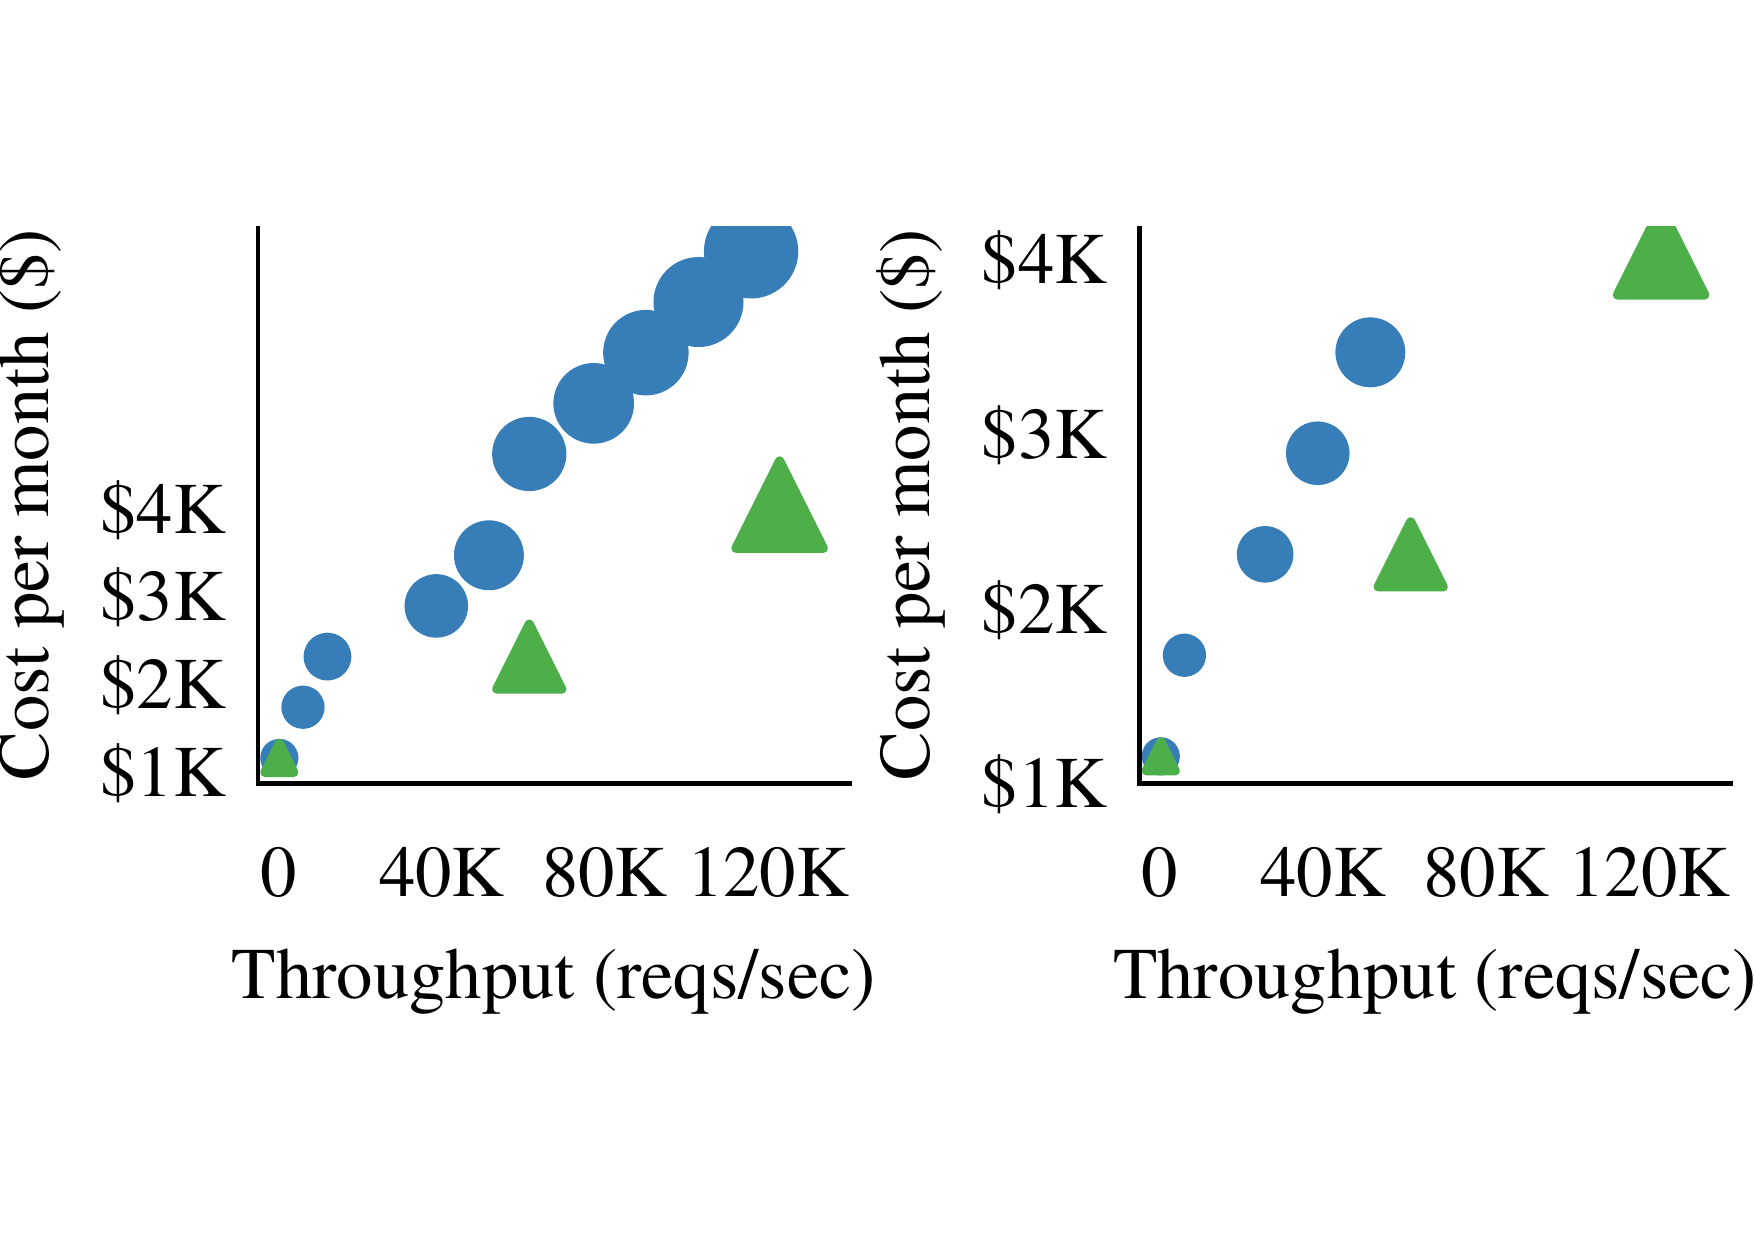
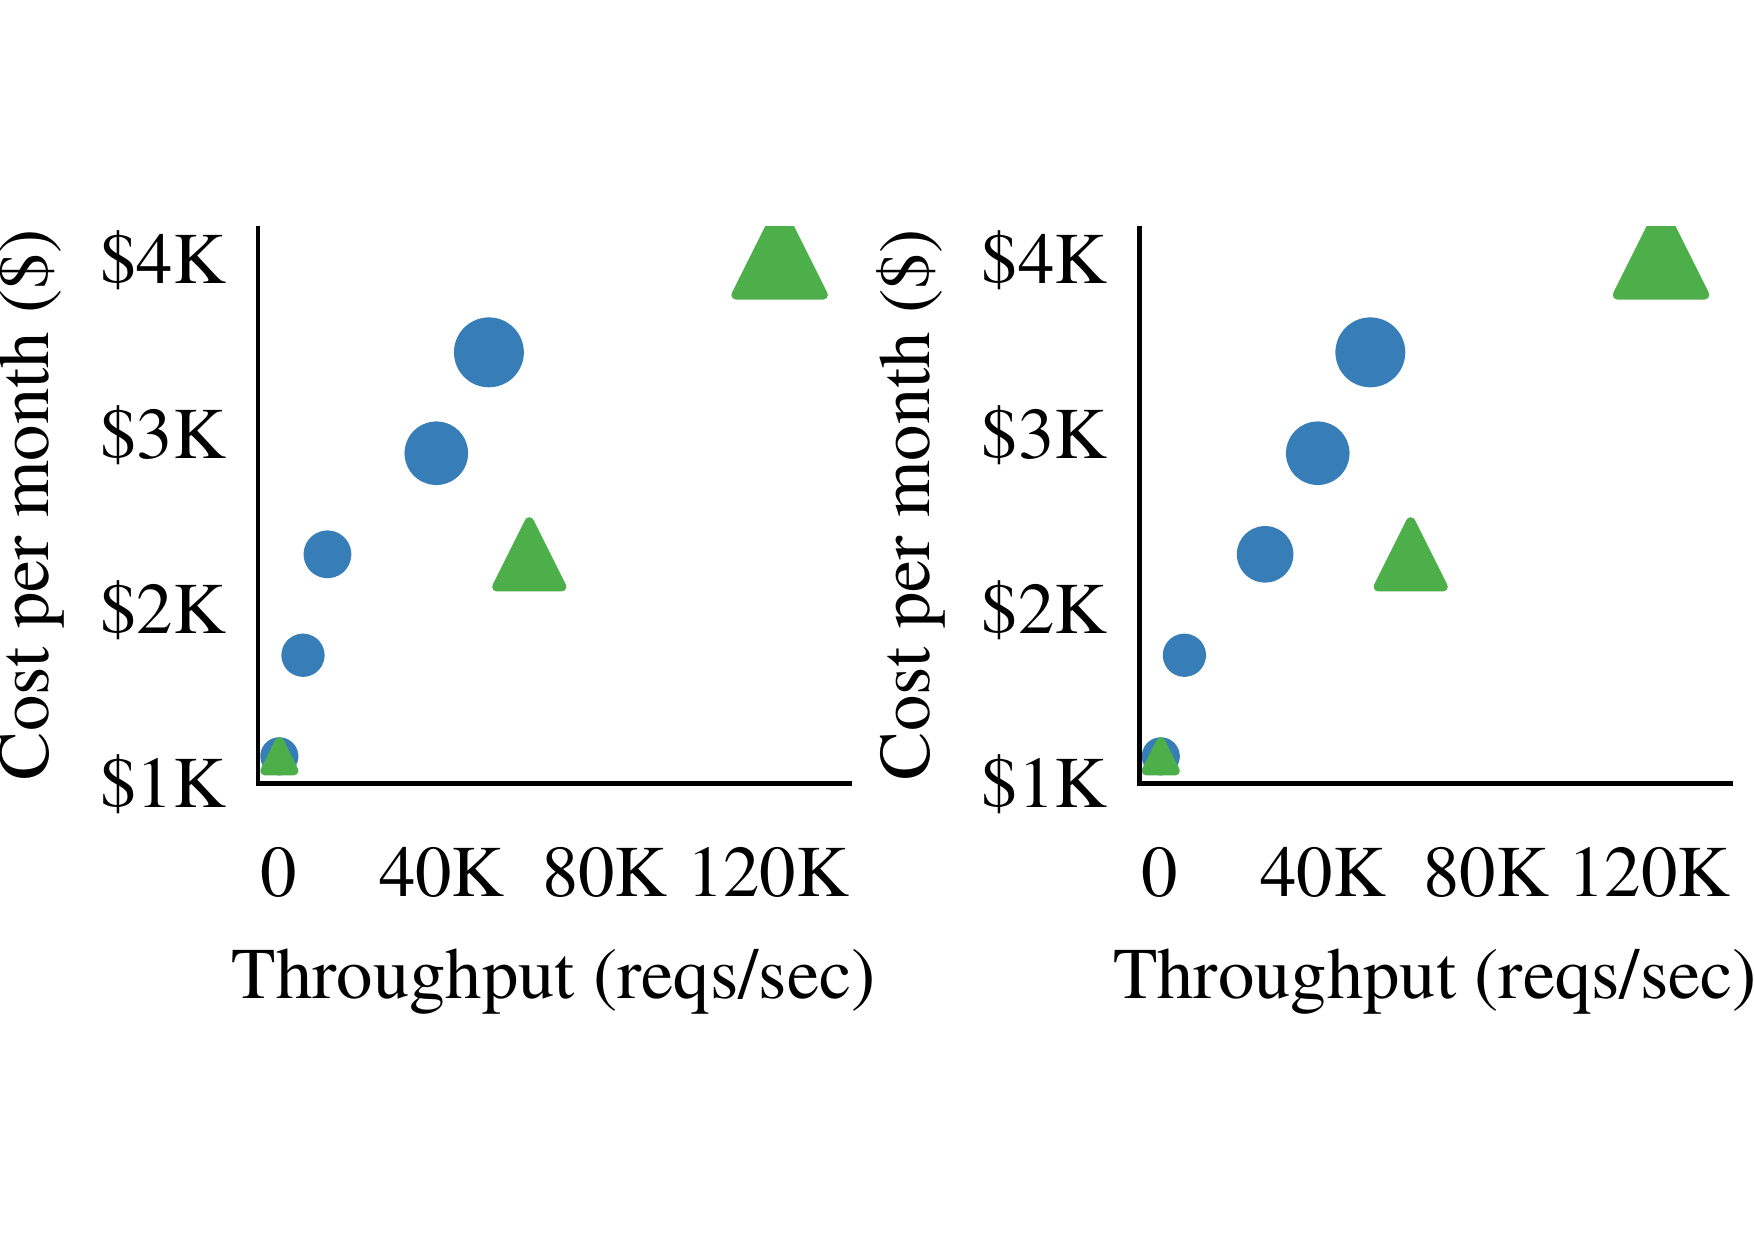
tweak fig14

diff --git a/scripts/fig/planner_config.py b/scripts/fig/planner_config.py
@@ -31,10 +31,12 @@ with open(in_name, 'r') as f:
     lines = f.readlines()
     for line in lines:
         arr = line.split()
-        param = arr[0]
-        suborams[param].append(int(arr[1]))
-        lbs[param].append(float(arr[2]))
-        throughput[param].append(float(arr[3]))
+        n_suborams = int(arr[1])
+        if n_suborams < 6:
+            param = arr[0]
+            suborams[param].append(int(arr[1]))
+            lbs[param].append(float(arr[2]))
+            throughput[param].append(float(arr[3]))
 
 suborams_filtered = suborams
 lbs_filtered = lbs

diff --git a/scripts/fig/planner_cost.py b/scripts/fig/planner_cost.py
@@ -30,9 +30,11 @@ with open(in_name, 'r') as f:
     lines = f.readlines()
     for line in lines:
         arr = line.split()
-        param = arr[0]
-        throughput[param].append(float(arr[1]))
-        cost[param].append(float(arr[2]))
+        _cost = float(arr[2])
+        if _cost < 4043:
+            param = arr[0]
+            throughput[param].append(float(arr[1]))
+            cost[param].append(float(arr[2]))
 
 throughput_filtered = throughput
 cost_filtered = cost
